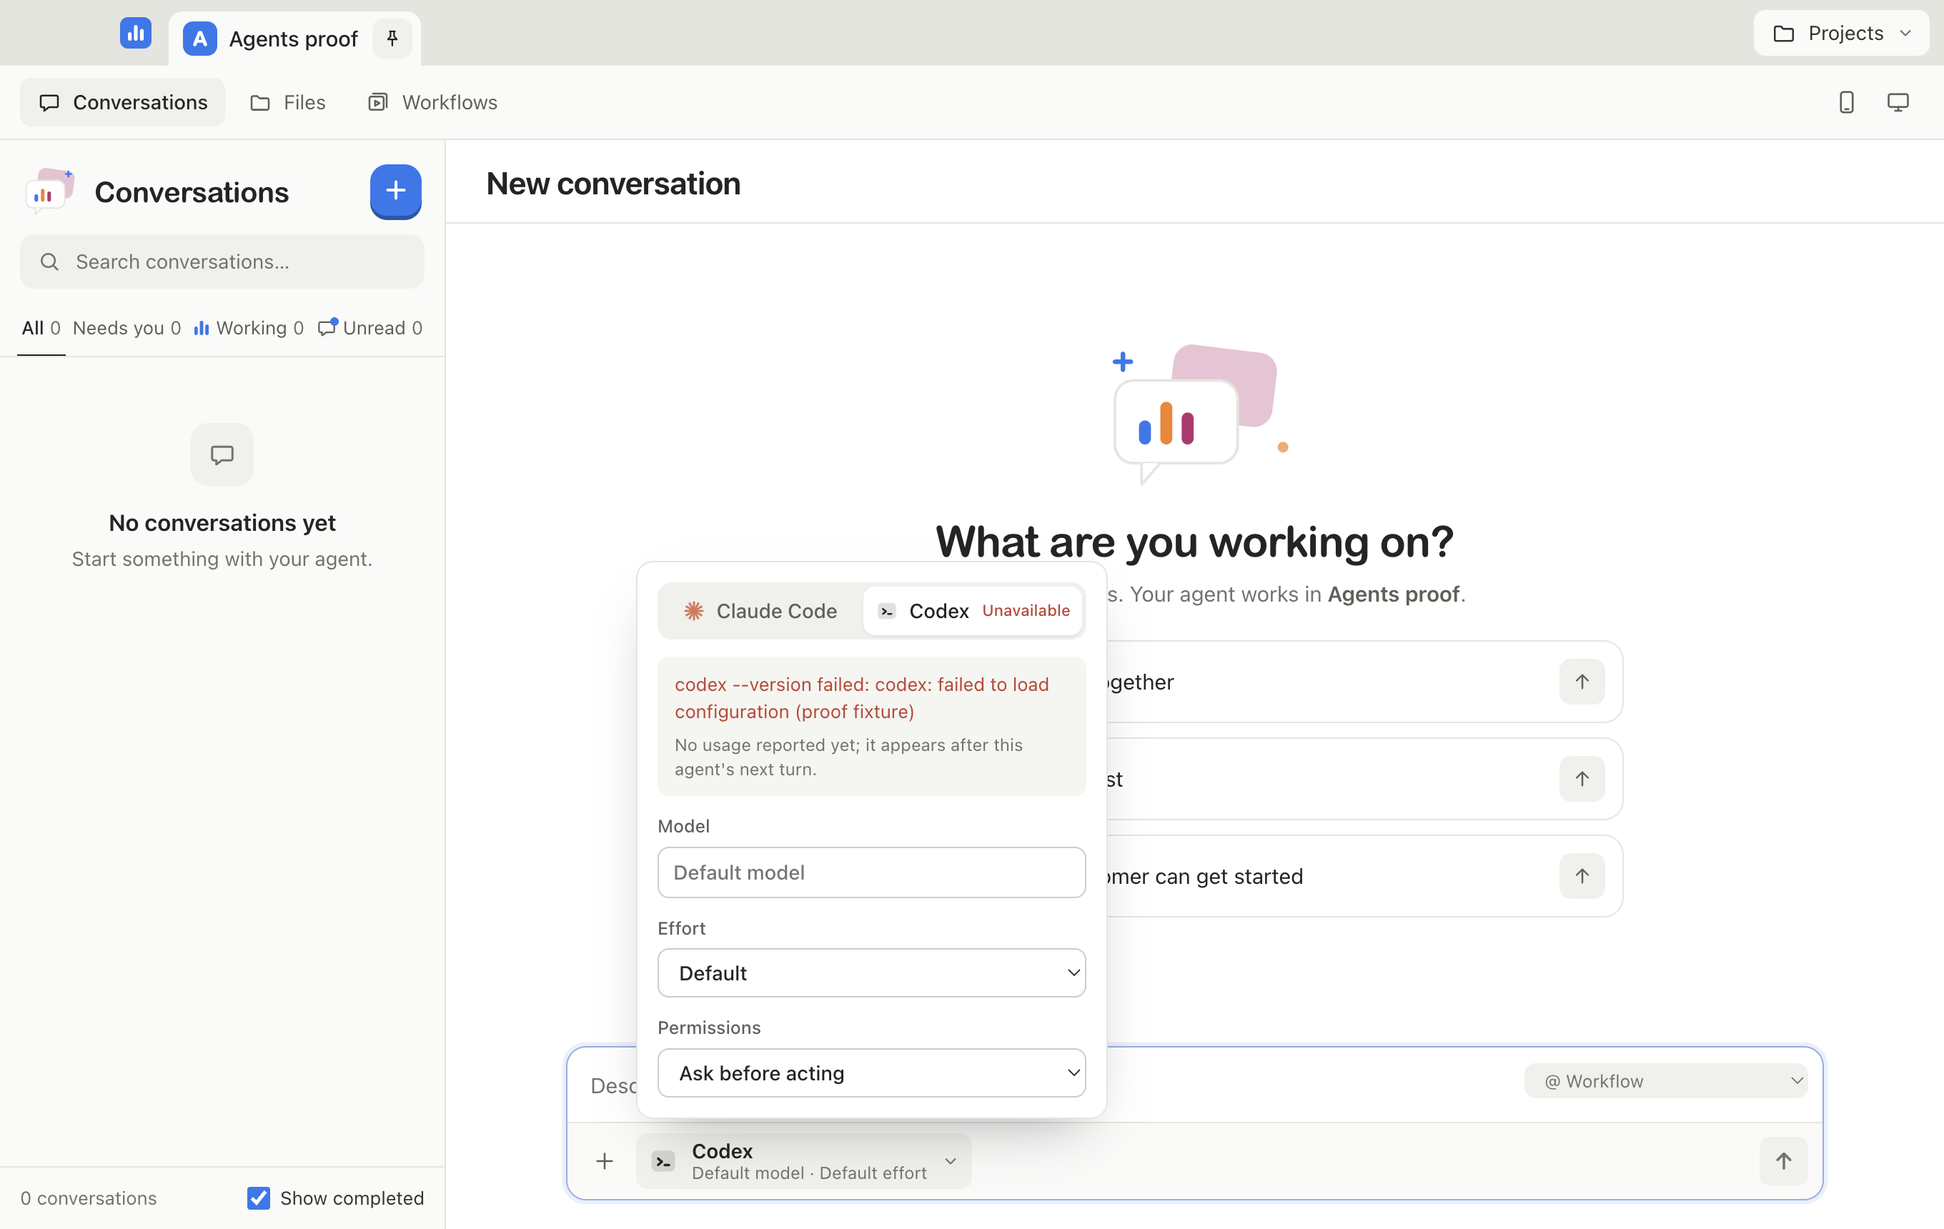
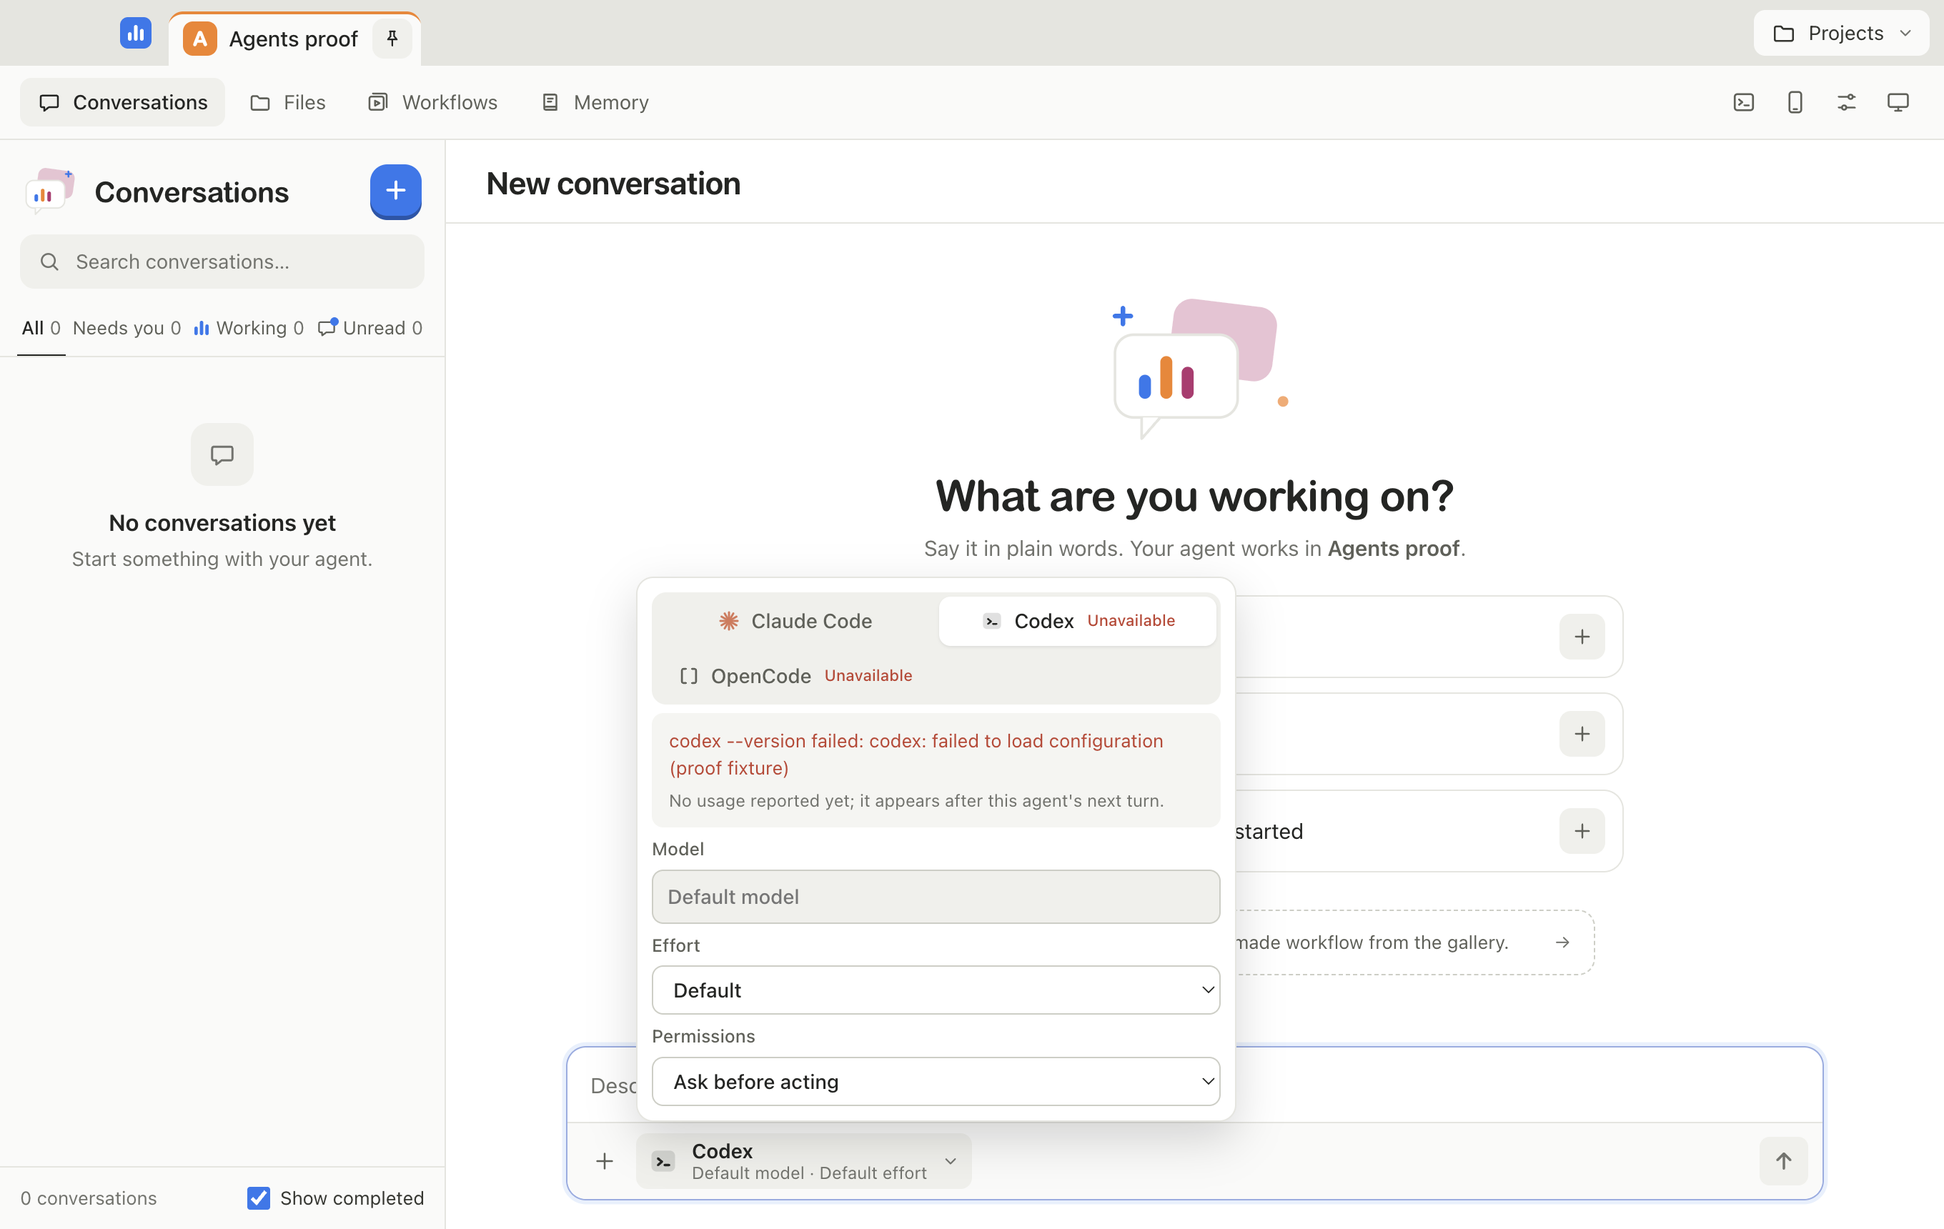
feat(agents): OpenCode with OpenRouter models, proven against an ACP stand-in (U10)
Pick OpenCode in the agent picker and type an openrouter/<provider>/<model> model; Cockpit runs
'opencode acp' with the model and permissions in OPENCODE_CONFIG_CONTENT, passes its instructions
and the cockpit MCP, shows permission requests as approval cards, and loads the same session after a
restart without showing replayed history twice. Provider model names show as typed in the picker.
README explains setup. Not yet run against a live OpenRouter account.
Gate: proof:opencode (10 checks, ACP stand-in); proof:agents re-run green.

diff --git a/scripts/proof-opencode.ts b/scripts/proof-opencode.ts
@@ -1,0 +1,84 @@
+// OpenCode / OpenRouter gate (U10), PACKAGED app: `npm run proof:opencode`. No agent usage: the
+// stand-in (scripts/fixtures/opencode-agent) speaks the Agent Client Protocol as `opencode acp` does.
+// Choosing OpenCode with an OpenRouter model reaches the agent's config; Cockpit's instructions and
+// MCP tools arrive; a permission request is an approval card (allow and deny); after a restart the
+// conversation loads the same session without showing its replayed history twice.
+import { mkdirSync, mkdtempSync, writeFileSync } from 'node:fs'
+import { tmpdir } from 'node:os'
+import { join } from 'node:path'
+import type { ElectronApplication, Page } from 'playwright-core'
+import { checker, launchPackagedApp, PROOF_DIR, ROOT } from './lib/launch-app.ts'
+import { chooseAgent, headStatus, messageBox, openProject } from './lib/ui.ts'
+
+const MODEL = 'openrouter/anthropic/claude-sonnet-4'
+const home = mkdtempSync(join(tmpdir(), 'cockpit-opencode-proof-'))
+const project = join(home, 'notes-app')
+mkdirSync(project)
+writeFileSync(join(project, 'README.md'), '# notes\n')
+const env = { COCKPIT_HOME: join(home, 'state'), COCKPIT_AGENT_PATH: join(ROOT, 'scripts/fixtures/opencode-agent') }
+const meta = (page: Page): Promise<{ sessionId: string; settings: { agent: string; model?: string } }> =>
+  page.evaluate(async () => ((await (await fetch('/api/threads')).json()) as { data: Array<{ meta: { sessionId: string; settings: { agent: string; model?: string } } }> }).data[0]!.meta)
+async function answer(page: Page, button: 'Allow' | 'Deny'): Promise<string> {
+  const card = page.locator('.approval.open')
+  await card.waitFor()
+  const text = await card.innerText()
+  await card.getByRole('button', { name: button, exact: true }).click()
+  await headStatus(page).filter({ hasText: 'Ready' }).waitFor()
+  return text
+}
+async function launch(): Promise<{ app: ElectronApplication; page: Page }> {
+  const app = await launchPackagedApp(env)
+  const page = await app.firstWindow()
+  await page.waitForLoadState('domcontentloaded')
+  page.setDefaultTimeout(15_000)
+  return { app, page }
+}
+
+const { check, finish } = checker()
+mkdirSync(PROOF_DIR, { recursive: true })
+let { app, page } = await launch()
+try {
+  await openProject(page, project, 'Notes app')
+  await page.getByRole('button', { name: 'Agent settings' }).click()
+  const panel = page.getByRole('dialog', { name: 'Agent settings' })
+  await panel.getByRole('radio', { name: 'OpenCode', exact: true }).click()
+  await panel.getByText('0.0.0 (Cockpit opencode fixture)').waitFor()
+  check('the picker offers OpenCode and shows it is installed', true)
+  await page.keyboard.press('Escape')
+  await chooseAgent(page, { agent: 'opencode', model: MODEL, permissions: 'manual' })
+
+  await page.getByRole('button', { name: 'New conversation' }).click()
+  await messageBox(page).fill('Run the tests please')
+  await messageBox(page).press('Enter')
+  const card = await answer(page, 'Allow')
+  check('a permission request is an approval card naming the command', card.includes('npm test'))
+  const first = await page.locator('.transcript').innerText()
+  check('the OpenRouter model reaches OpenCode\'s config', first.includes(`Using ${MODEL}`), first.slice(0, 200))
+  check('Cockpit\'s instructions and MCP tools arrive', first.includes('instructions received') && first.includes('cockpit tools attached'))
+  check('manual permissions become OpenCode\'s "ask"', first.includes('bash ask'))
+  check('the allowed step finishes and the reply follows', await page.locator('.step-label').filter({ hasText: 'Running npm test' }).count() === 1 && first.includes('All 3 tests pass.'))
+  const saved = await meta(page)
+  check('the conversation keeps OpenCode\'s session id and model', saved.sessionId === 'oc-session-1' && saved.settings.agent === 'opencode' && saved.settings.model === MODEL)
+  await page.screenshot({ path: join(PROOF_DIR, 'proof-opencode.png') })
+
+  await messageBox(page).fill('And again, but I will say no')
+  await messageBox(page).press('Enter')
+  await answer(page, 'Deny')
+  check('a denied step fails and the agent says so', (await page.locator('.bubble.agent').last().innerText()).includes('Skipped the tests'))
+
+  await app.close()
+  ;({ app, page } = await launch())
+  await page.locator('.card').first().click()
+  await messageBox(page).fill('One more time after a restart')
+  await messageBox(page).press('Enter')
+  await answer(page, 'Allow')
+  const after = await page.locator('.transcript').innerText()
+  check('after a restart the same OpenCode session is loaded', after.includes('Loaded oc-session-1.'))
+  check('its replayed history is not shown twice', !after.includes('replayed history'))
+} catch (error) {
+  check('proof ran to the end', false, error instanceof Error ? error.message : String(error))
+  await page.screenshot({ path: join(PROOF_DIR, 'proof-opencode-failure.png') }).catch(() => {})
+} finally {
+  await app.close()
+}
+finish('PROOF OPENCODE')

diff --git a/scripts/lib/ui.ts b/scripts/lib/ui.ts
@@ -21,10 +21,10 @@ export async function openProject(page: Page, dir: string, name?: string): Promi
 }
 
 /** Sets the new-conversation agent picker (remembered for later conversations). */
-export async function chooseAgent(page: Page, choice: { agent?: 'claude' | 'codex'; model?: string; permissions?: string }): Promise<void> {
+export async function chooseAgent(page: Page, choice: { agent?: 'claude' | 'codex' | 'opencode'; model?: string; permissions?: string }): Promise<void> {
   await page.getByRole('button', { name: 'Agent settings' }).click()
   const panel = page.getByRole('dialog', { name: 'Agent settings' })
-  if (choice.agent) await panel.getByRole('radio', { name: choice.agent === 'codex' ? 'Codex' : 'Claude Code', exact: true }).click()
+  if (choice.agent) await panel.getByRole('radio', { name: { claude: 'Claude Code', codex: 'Codex', opencode: 'OpenCode' }[choice.agent], exact: true }).click()
   if (choice.model !== undefined) await panel.getByLabel('Model').fill(choice.model)
   if (choice.permissions) await panel.getByLabel('Permissions').selectOption(choice.permissions)
   await page.keyboard.press('Escape')

diff --git a/web/src/components/AgentPicker.tsx b/web/src/components/AgentPicker.tsx
@@ -35,7 +35,9 @@ export const PERMISSION_LABEL: Record<ThreadSettings['permissionMode'], string> 
 const capitalize = (text: string): string => text.charAt(0).toUpperCase() + text.slice(1)
 
 export function choiceSummary(choice: AgentChoice): string {
-  return `${choice.model ? capitalize(choice.model) : 'Default model'} · ${choice.effort ? capitalize(choice.effort) : 'Default effort'}`
+  // Provider/model names (openrouter/…) are shown as typed; OpenCode has no effort setting of its own.
+  const model = choice.model ? (choice.model.includes('/') ? choice.model : capitalize(choice.model)) : 'Default model'
+  return choice.agent === 'opencode' ? model : `${model} · ${choice.effort ? capitalize(choice.effort) : 'Default effort'}`
 }
 
 export function settingsFromChoice(choice: AgentChoice, base?: ThreadSettings): Partial<ThreadSettings> {

diff --git a/docs/PLAN.md b/docs/PLAN.md
@@ -63,7 +63,7 @@ Each checkpoint is its own commit with a packaged-app proof, pushed when green.
 - **U7 App settings, sounds and the app icon.** *(Done 2026-10-01: `npm run proof:settings`, 7 checks, and `npm run proof:dock`, 10 checks, on the packaged app with stand-in agents; `proof:thread-menu` and `proof:appearance` re-run green. Not automated: whether the Cmd-Tab switcher shows the moving icon; look while an agent works.)* Sounds are off by default and synthesised in the page; a decision sounds for each fresh approval, including one that follows another with no gap. The Dock icon plays eight committed frames (`npm run dock-frames`) at 4 per second only while something is working, and its badge is the Needs you count across projects. Also fixed: overlapping list reloads could land out of order and send statuses backwards; only the newest now applies. An app settings panel; optional sounds when an agent replies and when it needs a decision. The app icon shows state from outside the window: it animates while any agent is working (David saw Enjoy's icon do this in the app switcher, 2026-10-01) and carries a badge with the Needs you count. Spike first: Electron's `app.dock.setIcon` frames and `app.dock.setBadge`; confirm the Cmd-Tab switcher picks up the changed icon, keep the frame rate low, and stop animating when nothing is working.
 - **U8 Project settings.** *(Done 2026-10-01: `npm run proof:project-settings`, 13 checks on the packaged app with the approval stand-in; `proof:instructions` not re-run because it uses real agents, its selectors are unchanged.)* The tint is the project colour: a wash on inactive tabs, a stripe on the active one. Pictures are scaled in the page to a 128 px square and kept in the app's own folder; the server accepts only PNG, JPEG, GIF or WebP up to 512 KB, checked by their bytes. Remove hides the project (so its conversations don't re-register it), is refused while an agent there is working or waiting, pauses its schedules, and is undone by opening the folder again. Import conversations (below) was added to this line by another session while U8 was in progress and was built afterwards: *(Done 2026-10-01: `npm run proof:import`, 12 checks on the packaged app against synthetic session files in both CLIs' shapes, with stand-ins that reply naming the session they were resumed with; parser tests in `tests/import.test.ts`. Opened from Projects ▾ → Import conversations…)* Project name, tab tint (a few presets), project image, Open folder in Finder, Remove from Cockpit (never touches the folder). Import conversations (requested 2026-10-01 after Mark Kashef asked whether Cockpit brings the CLIs' JSONL files into context): list the project's existing Claude Code sessions (`~/.claude/projects/<encoded path>/*.jsonl`) and Codex sessions (`~/.codex/sessions/**/rollout-*.jsonl` whose working folder is the project), with date and first prompt; importing one creates a Cockpit conversation from its messages and tool steps and keeps the original session id, so the next message resumes that same CLI session (`--resume` / `thread/resume`). Read-only on the source files, only sessions from this project's folder, already-imported sessions marked. Gate: parser tests on recorded files from both CLIs, and a packaged proof that imports one session per CLI and continues it.
 - **U9 Files extras.** *(Done 2026-10-01: `npm run proof:files-extras`, 20 checks on the packaged app, no agent; `proof:edit` and `proof:docs` re-run green; `proof:files` not re-run because it includes a real agent turn.)* Pin and archive apply to your documents only; rename works in both places and never replaces a file; Delete is Move to Trash, so it can be undone from Finder; Close other / Close all keep tabs with unsaved changes open and say so. Documents are not offered to conversations (agents can't read the app's folder). Your documents (kept by the app per project, outside the repository) beside Project files; New file choices (Markdown, JSON, plain text, other); rename, pin, archive with an Archived view, delete; Open in default app, Reveal in Finder; an open-tabs menu with Close other tabs and Close all tabs; a footer with Saved state and word count; line numbers in Source view.
-- **U10 More agents** (requested 2026-10-01; detail under Phase 8). *(Checked 2026-10-01, blocked on David. Gemini CLI 0.42 has an `--acp` mode (Agent Client Protocol: JSON-RPC over stdio with `session/request_permission` for approvals), which is the route to build; `scripts/record-gemini-acp.ts` records a session for parser tests, but the Gemini login has expired: even headless mode stops at "Opening authentication page in your browser", so run `gemini` once in Terminal and sign in. Update, same day: after signing in, Google refuses the personal login for this client (`IneligibleTierError: UNSUPPORTED_CLIENT`, "This client is no longer supported for Gemini Code Assist for individuals ... migrate to the Antigravity suite"). Gemini CLI now needs a Gemini API key or Vertex AI, both billed; David decides whether to. Antigravity: its only command-line entry, `~/.gemini/antigravity/bin/agentapi`, hands prompts to the running desktop app's language server (new-conversation, send-message), with no event stream or approvals, so it is not a headless agent and is skipped as planned. OpenCode is not installed, and OpenRouter through it also needs an OpenRouter key.)* Gemini CLI first: installed here (0.42), so its headless JSON output or its agent protocol mode can be recorded and parsed like the others. Then Antigravity, only if it offers a headless agent Cockpit can drive (here it is installed as desktop apps; check before planning). OpenRouter through OpenCode's provider support. One adapter per checkpoint, each with recorded-traffic parser tests and a smoke run.
+- **U10 More agents** (requested 2026-10-01; detail under Phase 8). *(Checked 2026-10-01, blocked on David. Gemini CLI 0.42 has an `--acp` mode (Agent Client Protocol: JSON-RPC over stdio with `session/request_permission` for approvals), which is the route to build; `scripts/record-gemini-acp.ts` records a session for parser tests, but the Gemini login has expired: even headless mode stops at "Opening authentication page in your browser", so run `gemini` once in Terminal and sign in. Update, same day: after signing in, Google refuses the personal login for this client (`IneligibleTierError: UNSUPPORTED_CLIENT`, "This client is no longer supported for Gemini Code Assist for individuals ... migrate to the Antigravity suite"). Gemini CLI now needs a Gemini API key or Vertex AI, both billed; David decides whether to. Antigravity: its only command-line entry, `~/.gemini/antigravity/bin/agentapi`, hands prompts to the running desktop app's language server (new-conversation, send-message), with no event stream or approvals, so it is not a headless agent and is skipped as planned. OpenCode is not installed, and OpenRouter through it also needs an OpenRouter key.)* *(OpenRouter wired 2026-10-01 at David's request ("wire openrouter but I won't use it yet; others might"): OpenCode is a third agent through a generic ACP client (`server/agents/acp/`), launched as `opencode acp` with model and permissions in `OPENCODE_CONFIG_CONTENT`; `npm run proof:opencode`, 10 checks on the packaged app against an ACP stand-in, plus `tests/acp.test.ts`. Not run against a live OpenCode or OpenRouter account. The same ACP client can drive `gemini --acp` once there is a Gemini API key.)* Gemini CLI first: installed here (0.42), so its headless JSON output or its agent protocol mode can be recorded and parsed like the others. Then Antigravity, only if it offers a headless agent Cockpit can drive (here it is installed as desktop apps; check before planning). OpenRouter through OpenCode's provider support. One adapter per checkpoint, each with recorded-traffic parser tests and a smoke run.
 - **U11 Account and plan placeholders.** An account panel that says the preview is free, with a plan card and licence field shown as "coming later". Licence decided 2026-10-01: not open source. `LICENSE` reserves all rights (source published to read; official builds may be run for personal use), and the README says so. Still open: what, if anything, is paid.
 
 - **U12 Turn lifecycle** *(Done 2026-10-01: `npm run proof:lifecycle`, 14 checks on the packaged app with a stand-in agent; `proof:thread-menu`, `proof:settings`, `proof:dock` and `proof:appearance` re-run green.)* A question or blocker is carried as `awaiting` on the conversation rather than as a status, so a project with an open question is not "busy" (branch switching, schedules and Remove still only wait for a running turn); Needs you, the Dock badge and the decision sound read both. Phone push for questions is not done yet: it still only fires for approvals. (added 2026-10-01 on David's instruction: "this is a clone; if Enjoy has it, we must have it". Source: Enjoy's own in-app agent describing how the app works, pasted by David the same day). Every turn reads as three parts. *Acknowledgement*: the agent's first short message, shown at once, so long work never looks stalled. *Updates*: later interim messages, folded in with the step lines unless the agent marks one as a real multi-step update. *Conclusion*: the turn's last message, styled as the result and typed as an answer, a question for you, or a blocker. A question or blocker ends the turn cleanly and puts the conversation in Needs you, with the decision sound and the Dock badge. The list preview shows the conclusion, never an interim update. Cockpit asks for this shape in the guidance it already appends (beside `COCKPIT_GUIDANCE`), including a short marker for questions and blockers, but never depends on it: a turn with one message has only a conclusion, nothing is invented, and an untagged final message is an answer. Gate `proof:lifecycle`: a stand-in agent sends an acknowledgement, two updates and each kind of conclusion; the Claude and Codex parser tests still pass.

diff --git a/README.md b/README.md
@@ -69,6 +69,7 @@ Packaged-app captures with synthetic projects. The primary flow is: open a proje
 - **Parallel conversations, grouped by project.** A tab per pinned project, each showing how many agents are working and how many need you. The list filters by All, Needs you, Working and Unread, with live counts and search.
 - **Approvals where you are.** When an agent asks to run a command or edit a file, the request appears as a card in the conversation: Allow, Allow for this session, or Deny.
 - **Two agents, one thread.** Pick Claude Code or Codex, the model, effort and permission mode per conversation. Switch agent mid-thread and the transcript is handed over to the new one.
+- **OpenRouter through OpenCode (optional).** Install [OpenCode](https://opencode.ai) (`opencode`), run `opencode auth login` once and add your OpenRouter key, then pick OpenCode in the agent picker and type a model such as `openrouter/anthropic/claude-sonnet-4`. Cockpit runs it as `opencode acp`; approvals, steps and the cockpit tools work as with the other agents. This path is tested against a stand-in agent, not yet against a live OpenRouter account.
 - **Dev servers the agent can see.** Every agent session gets a built-in `cockpit` MCP server. The agent starts long-running commands through it, reads their output, and opens the local preview for you. Running processes show under the conversation title, with the URL and a Stop button.
 - **Repeatable workflows.** Save project instructions and agent settings, run them manually or on a repeating interval, and open each run as a conversation. Schedules run while Cockpit is open and pause on failure.
 - **Edit project files.** The Files panel opens text files in tabs with Save (Cmd+S) and Revert. If an agent or another editor changes a file while you edit it, you get a conflict with Save mine as a copy, Reload from disk or Overwrite with mine. Nothing is overwritten silently.
